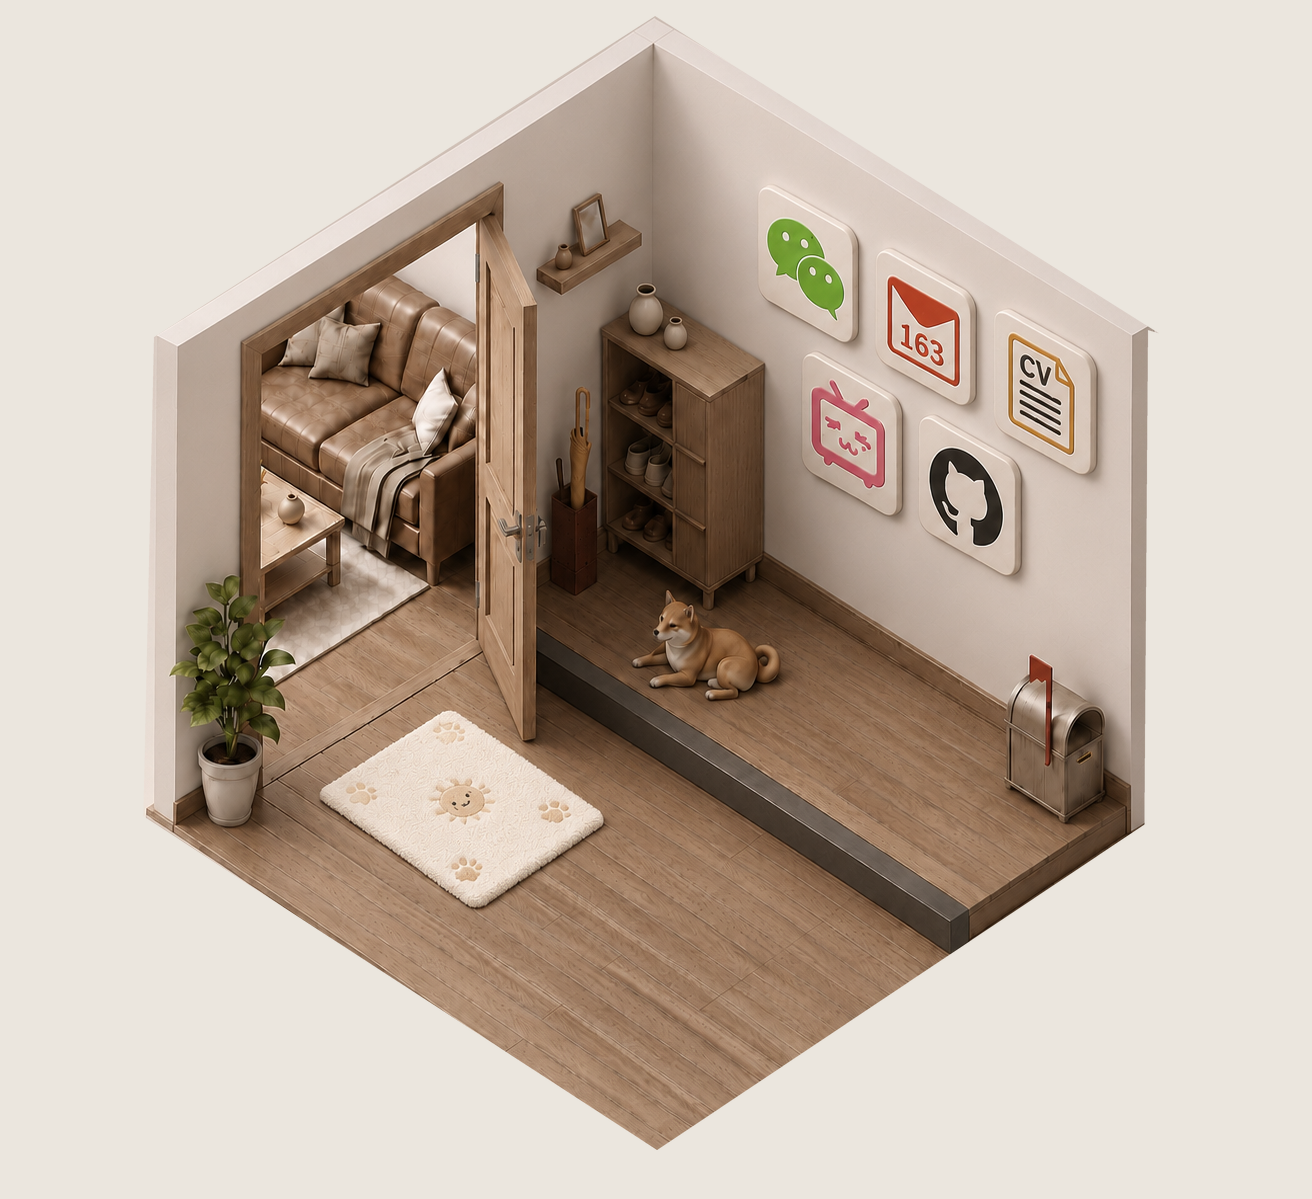
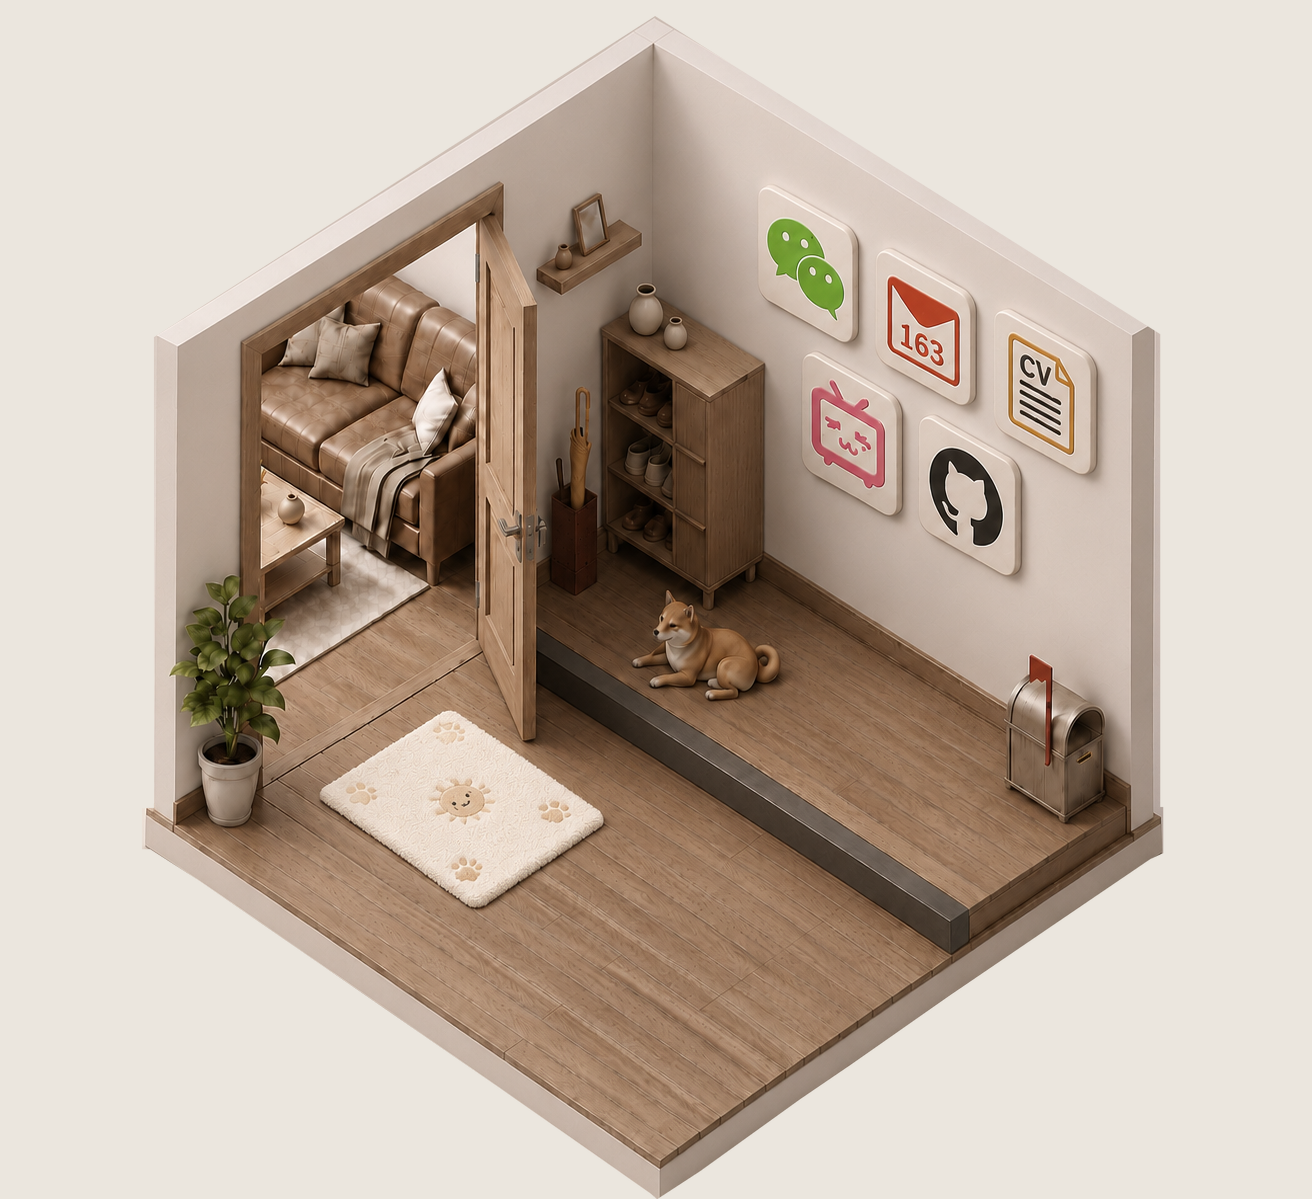
Restore doorstep plinth depth

Changed region(s): [[0.0938, 0.2777, 0.9062, 1.0]]

diff --git a/rooms/doorstep/index.html b/rooms/doorstep/index.html
@@ -1,1 +1,1 @@
-<!doctype html><html lang="zh-CN"><head><meta charset="utf-8"><meta name="viewport" content="width=device-width,initial-scale=1"><meta name="theme-color" content="#ebe6de"><title>门廊 — 杨昕乔 Portfolio</title><link rel="preload" as="image" href="/assets/rooms/doorstep-house-final.png?v=1" fetchpriority="high"><link rel="preload" as="image" href="/assets/rooms/doorstep-personal.jpg?v=1" fetchpriority="high"><link rel="stylesheet" href="/styles/portfolio.css?v=156"></head><body><div id="app"></div><script type="module" src="/scripts/app.js?v=150"></script></body></html>
+<!doctype html><html lang="zh-CN"><head><meta charset="utf-8"><meta name="viewport" content="width=device-width,initial-scale=1"><meta name="theme-color" content="#ebe6de"><title>门廊 — 杨昕乔 Portfolio</title><link rel="preload" as="image" href="/assets/rooms/doorstep-house-final.png?v=2" fetchpriority="high"><link rel="preload" as="image" href="/assets/rooms/doorstep-personal.jpg?v=1" fetchpriority="high"><link rel="stylesheet" href="/styles/portfolio.css?v=156"></head><body><div id="app"></div><script type="module" src="/scripts/app.js?v=151"></script></body></html>

diff --git a/rooms/garden/index.html b/rooms/garden/index.html
@@ -1,1 +1,1 @@
-<!doctype html><html lang="en"><head><meta charset="utf-8"><meta name="viewport" content="width=device-width,initial-scale=1"><meta name="theme-color" content="#f1f0eb"><title>Garden — 杨昕乔 Portfolio</title><link rel="preload" as="image" href="/assets/rooms/doorstep-house-final.png?v=1" fetchpriority="low"><link rel="stylesheet" href="/styles/portfolio.css?v=156"></head><body><div id="app"></div><script type="module" src="/scripts/app.js?v=150"></script></body></html>
+<!doctype html><html lang="en"><head><meta charset="utf-8"><meta name="viewport" content="width=device-width,initial-scale=1"><meta name="theme-color" content="#f1f0eb"><title>Garden — 杨昕乔 Portfolio</title><link rel="preload" as="image" href="/assets/rooms/doorstep-house-final.png?v=2" fetchpriority="low"><link rel="stylesheet" href="/styles/portfolio.css?v=156"></head><body><div id="app"></div><script type="module" src="/scripts/app.js?v=151"></script></body></html>

diff --git a/rooms/living/index.html b/rooms/living/index.html
@@ -1,1 +1,1 @@
-<!doctype html><html lang="en"><head><meta charset="utf-8"><meta name="viewport" content="width=device-width,initial-scale=1"><meta name="theme-color" content="#f1f0eb"><title>Living Room — 杨昕乔 Portfolio</title><link rel="stylesheet" href="/styles/portfolio.css?v=156"></head><body><div id="app"></div><script type="module" src="/scripts/app.js?v=150"></script></body></html>
+<!doctype html><html lang="en"><head><meta charset="utf-8"><meta name="viewport" content="width=device-width,initial-scale=1"><meta name="theme-color" content="#f1f0eb"><title>Living Room — 杨昕乔 Portfolio</title><link rel="stylesheet" href="/styles/portfolio.css?v=156"></head><body><div id="app"></div><script type="module" src="/scripts/app.js?v=151"></script></body></html>

diff --git a/rooms/kitchen/index.html b/rooms/kitchen/index.html
@@ -1,1 +1,1 @@
-<!doctype html><html lang="en"><head><meta charset="utf-8"><meta name="viewport" content="width=device-width,initial-scale=1"><meta name="theme-color" content="#f1f0eb"><title>Kitchen — 杨昕乔 Portfolio</title><link rel="stylesheet" href="/styles/portfolio.css?v=156"></head><body><div id="app"></div><script type="module" src="/scripts/app.js?v=150"></script></body></html>
+<!doctype html><html lang="en"><head><meta charset="utf-8"><meta name="viewport" content="width=device-width,initial-scale=1"><meta name="theme-color" content="#f1f0eb"><title>Kitchen — 杨昕乔 Portfolio</title><link rel="stylesheet" href="/styles/portfolio.css?v=156"></head><body><div id="app"></div><script type="module" src="/scripts/app.js?v=151"></script></body></html>

diff --git a/rooms/study/index.html b/rooms/study/index.html
@@ -1,1 +1,1 @@
-<!doctype html><html lang="en"><head><meta charset="utf-8"><meta name="viewport" content="width=device-width,initial-scale=1"><meta name="theme-color" content="#f1f0eb"><title>Study — 杨昕乔 Portfolio</title><link rel="stylesheet" href="/styles/portfolio.css?v=156"></head><body><div id="app"></div><script type="module" src="/scripts/app.js?v=150"></script></body></html>
+<!doctype html><html lang="en"><head><meta charset="utf-8"><meta name="viewport" content="width=device-width,initial-scale=1"><meta name="theme-color" content="#f1f0eb"><title>Study — 杨昕乔 Portfolio</title><link rel="stylesheet" href="/styles/portfolio.css?v=156"></head><body><div id="app"></div><script type="module" src="/scripts/app.js?v=151"></script></body></html>

diff --git a/scripts/rooms-data.js b/scripts/rooms-data.js
@@ -948,7 +948,7 @@ export const ROOMS = [
     number: "05",
     title: "Doorstep",
     path: "/rooms/doorstep",
-    image: "/assets/rooms/doorstep-house-final.png?v=1",
+    image: "/assets/rooms/doorstep-house-final.png?v=2",
     alt: "暖色等距视角门廊小屋，包含开放木门、鞋柜、联系图标、小狗和地垫",
     description: "A quiet goodbye at the doorstep.",
     isDoorstep: true,

diff --git a/index.html b/index.html
@@ -12,6 +12,6 @@
 <body>
   <div id="app"></div>
   <noscript>This portfolio requires JavaScript for room navigation.</noscript>
-  <script type="module" src="/scripts/app.js?v=150"></script>
+  <script type="module" src="/scripts/app.js?v=151"></script>
 </body>
 </html>

diff --git a/scripts/app.js b/scripts/app.js
@@ -7,7 +7,7 @@ import {
   SHOW_HOTSPOTS,
   adjacentPages,
   roomFromPath,
-} from "/scripts/rooms-data.js?v=104";
+} from "/scripts/rooms-data.js?v=105";
 
 const PAGE_FADE_TIMING = { exit: 240, enter: 360 };
 const REDUCED_PAGE_FADE_TIMING = { exit: 1, enter: 1 };

diff --git a/scripts/match-doorstep-background.py b/scripts/match-doorstep-background.py
@@ -11,24 +11,37 @@ SOURCE = ROOT / "assets/rooms/doorstep-house-full.png"
 OUTPUT = ROOT / "assets/rooms/doorstep-house-final.png"
 CANVAS = (235, 230, 222)
 
-# The complete house silhouette, including the lower plinth, in source pixels.
+# The complete house silhouette in source pixels. The lower points follow the
+# outside edge of the plinth, preserving its full depth while excluding only
+# the three marked background/shadow areas beyond it.
 HOUSE_OUTLINE = (
     (655, 16),
     (1160, 334),
-    (1163, 878),
-    (1122, 921),
-    (657, 1205),
-    (631, 1205),
-    (142, 875),
+    (1160, 807),
+    (1163, 807),
+    (1163, 853),
+    (1150, 859),
+    (1100, 893),
+    (1050, 927),
+    (1000, 961),
+    (950, 995),
+    (900, 1030),
+    (850, 1065),
+    (800, 1099),
+    (750, 1135),
+    (700, 1171),
+    (657, 1199),
+    (650, 1193),
+    (600, 1158),
+    (500, 1088),
+    (400, 1019),
+    (300, 950),
+    (200, 881),
+    (150, 849),
+    (142, 849),
+    (142, 808),
+    (154, 808),
     (154, 337),
-)
-
-# The three regions marked in 4901.png: the outer right wall edge and the two
-# lower plinth sections. Everything else remains from the supplied scene.
-REMOVED_REGIONS = (
-    ((1148, 330), (1168, 336), (1167, 878), (1152, 892), (1144, 878)),
-    ((140, 814), (657, 1150), (660, 1205), (631, 1205), (140, 878)),
-    ((657, 1150), (1160, 814), (1167, 920), (660, 1205)),
 )
 
 SUPERSAMPLE = 4
@@ -45,11 +58,6 @@ def main() -> None:
         [(x * SUPERSAMPLE, y * SUPERSAMPLE) for x, y in HOUSE_OUTLINE],
         fill=255,
     )
-    for region in REMOVED_REGIONS:
-        draw.polygon(
-            [(x * SUPERSAMPLE, y * SUPERSAMPLE) for x, y in region],
-            fill=0,
-        )
     mask = mask.resize(source.size, Image.Resampling.LANCZOS)
 
     background = Image.new("RGB", source.size, CANVAS)
